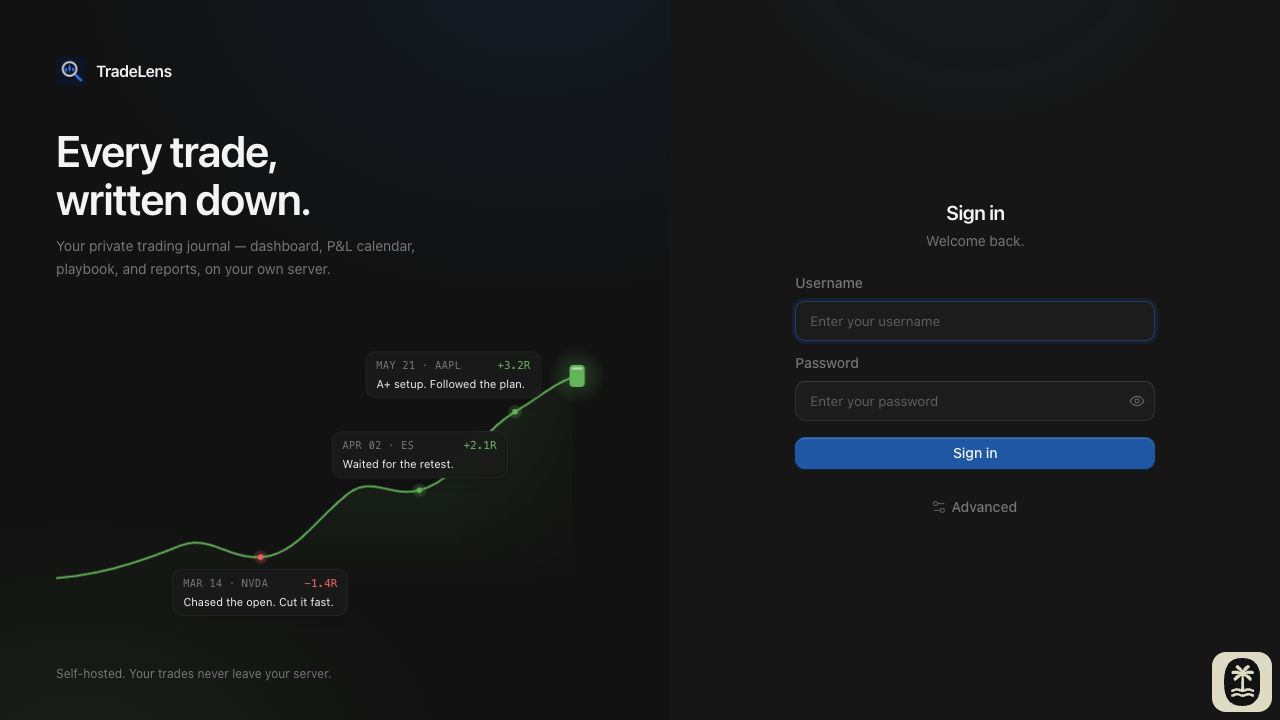
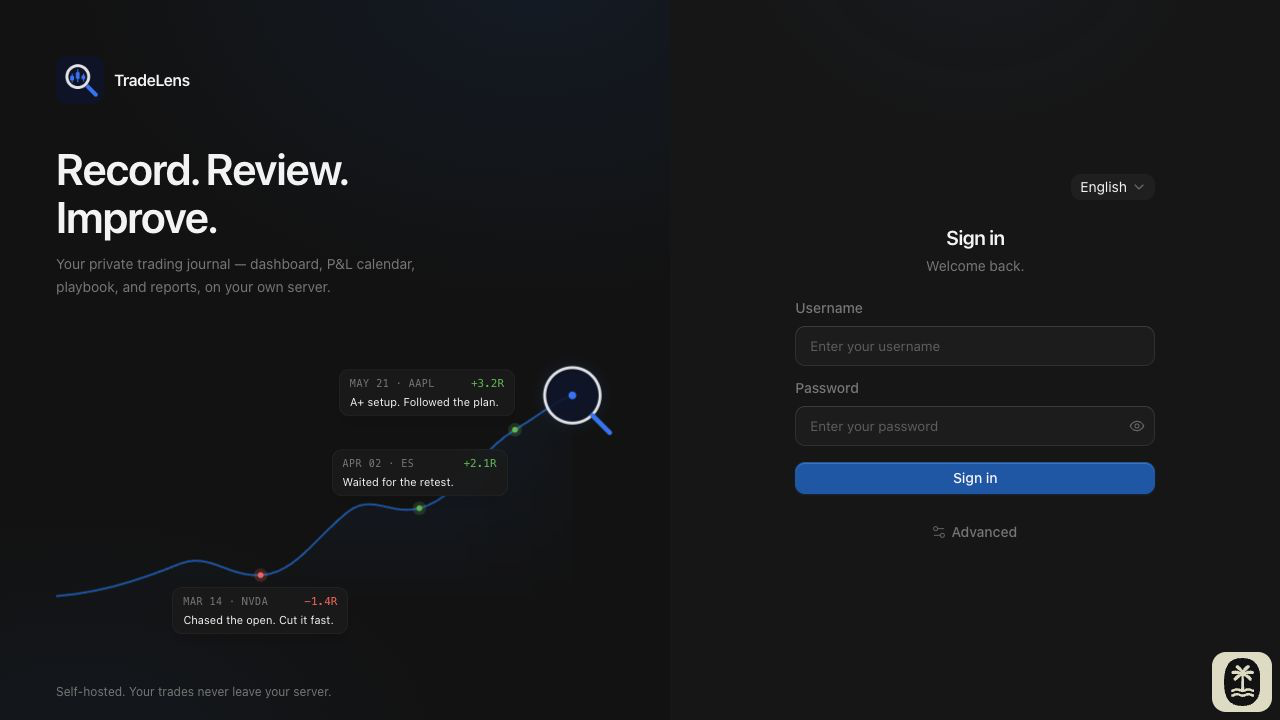
docs: refresh README for current TradeLens UI and roadmap

diff --git a/README.md b/README.md
@@ -28,7 +28,7 @@ TradeLens retains the original project’s AGPL-3.0 license and attribution; see
 
 <br/>
 
-<img src="docs/screenshots/tradelens-login-en.png" alt="TradeLens sign-in screen with the lens icon and product name" width="100%" />
+<img src="docs/screenshots/tradelens-login-en.png" alt="TradeLens sign-in screen with language selector" width="100%" />
 
 </div>
 
@@ -58,12 +58,12 @@ These capabilities are available on the current `main` branch. Core journaling, 
 
 | Capability | What you can do |
 |---|---|
-| **Trading Journal** | Record or import fills, group them into trades, filter and tag your journal, attach screenshots, and review execution detail and MAE/MFE. Keep trade plans, planned direction, stops, and targets alongside actual fills and review notes. Import broker CSVs, MT4/MT5 statements, or IBKR Flex data; use [tm-sync](docs/tm-sync.md) to watch statement folders. |
+| **Trading Journal** | Record or import fills, group them into trades, filter and tag your journal, attach screenshots, and review execution detail and MAE/MFE when intraday bars are available. Keep trade plans, planned direction, stops, and targets alongside actual fills and review notes. Import broker CSVs, MT4/MT5 statements, or IBKR Flex trade data; use [tm-sync](docs/tm-sync.md) to watch statement folders. |
 | **Portfolio & Performance** | Review one account or a selected account group through Home statistics, equity curves, the P&L calendar, account-value estimates, and annual goals. Analyze expectancy, SQN, Kelly %, Monte Carlo, execution quality, and setup/session breakdowns; manage cash flows and risk/prop alerts. Mixed-currency analytics require a target currency and use **latest FX**, including when displaying historical values; they do not reconstruct historical FX returns. |
 | **Japanese Broker Support** | Import SBI Securities execution, yen cash-statement, and domestic-stock realized P&L CSVs. Review cash and margin-long/short trades, 現引 (margin-to-cash conversion), and 現渡 (delivery settlement), with broker-specific accounting and warnings where split or valuation evidence is incomplete. |
 | **Market Data** | Use Yahoo or Finnhub bars, or connect a local/self-hosted service implementing the Generic Bars v1 HTTP contract. Configure provider order and fallback for supported responses. Feed charts, excursion analysis, replay, valuation, and prediction evaluation with available bars; inspect split-related events and data limitations. |
 | **Trading Research** | Build a Playbook linked to trades and review rule compliance. Replay available bars with a persistent paper account. Record news theses, affected assets, and User/AI predictions; review optional AI suggestions before saving and export news records as Markdown. Prediction-validation APIs evaluate trading-day horizons and optional benchmark/excess returns; the News performance page summarizes stored evaluations. |
-| **User Experience** | Review trades in dark or light themes, use localized Web workflows in English, Simplified Chinese, and Japanese (with upstream Traditional Chinese and Korean retained), and use position-size, FX, and Kelly tools. Share revocable read-only performance links, share cards, and Year Wrapped recaps. Optional AI supports screenshot fill extraction and trade coaching; personal API tokens support scripts/MCP, with OpenAPI docs at `/docs`. |
+| **User Experience** | Choose English, 中文, or 日本語 before sign-in, then use localized Web workflows in English, Simplified Chinese, and Japanese (with upstream Traditional Chinese and Korean retained). Review trades in dark or light themes and use position-size, FX, and Kelly tools. Share cards and Year Wrapped recaps, or enable revocable read-only performance links. Optional AI supports screenshot fill extraction and trade coaching; personal API tokens support scripts/MCP, with OpenAPI docs at `/docs`. |
 
 ## Extended from TraderMemos
 
@@ -74,15 +74,13 @@ This fork adds or significantly extends the following areas while retaining the 
 - **Trade planning and review:** planned direction is stored separately from execution/accounting direction, with clearer separation of plan, actual fills, target-price comparison, and review notes. The underlying journal, stops/targets, and risk tools come from TraderMemos.
 - **Market-data integration:** Generic Bars v1 HTTP access for compatible external services, configurable provider routing/fallback, source metadata, and additional Japanese symbol and corporate-action handling. This interface does not bundle a collector or guarantee complete intraday history.
 - **News thesis research:** news/asset records, manual predictions, optional structured AI analysis with explicit acceptance, deterministic horizon evaluation, optional benchmark comparison, performance aggregation, and Markdown export. Evaluation depends on available bars; pending, unavailable, and incomplete outcomes remain distinct from validated results.
-- **Web localization and workflow refinements:** Simplified Chinese and expanded English/Japanese coverage across trading, imports, analytics, news, and settings, plus TradeLens branding and revised review surfaces. Translation coverage does not imply every retained upstream locale or mobile workflow has been validated.
+- **Web localization and workflow refinements:** a sign-in language selector, Simplified Chinese and expanded English/Japanese coverage across trading, imports, analytics, news, and settings, plus TradeLens branding and revised review surfaces. Translation coverage does not imply every retained upstream locale or mobile workflow has been validated.
 
 ## Roadmap & validation scope
 
 The following are tracked separately and are **not delivered features**:
 
-- [IBKR intraday market-data provider](https://github.com/HoesenBruce/TradeLens/issues/15): IBKR Flex trade imports are available; a dedicated IBKR intraday bars provider is not.
-- [Custom statistics dashboard](https://github.com/HoesenBruce/TradeLens/issues/10), [additional multi-account review](https://github.com/HoesenBruce/TradeLens/issues/9), and [actual/virtual account comparison](https://github.com/HoesenBruce/TradeLens/issues/8): current portfolio aggregation does not imply these additional workflows are complete.
-- [Login-page language selector](https://github.com/HoesenBruce/TradeLens/issues/195): in-app language settings exist; a login selector remains planned.
+- [Custom statistics dashboard](https://github.com/HoesenBruce/TradeLens/issues/10), [multi-account review workflow](https://github.com/HoesenBruce/TradeLens/issues/9), and [actual/virtual account comparison](https://github.com/HoesenBruce/TradeLens/issues/8) remain open for specification. Current account aggregation does not deliver these workflows.
 
 The Generic Bars HTTP integration is implemented; operating a separate intraday collector and verifying its data coverage is a separate deployment task. News research and evaluation are implemented as described above, not a promise of automated news collection or a general event backtesting system.
 
@@ -108,7 +106,7 @@ cd TradeLens
 make up-build    # → http://localhost:3000
 ```
 
-Build from this fork so the Web UI includes TradeLens branding; `make up` pulls upstream images by default until fork release metadata is updated (#103). Same-origin `/api` — no CORS, leave the **Server** field blank. On first visit the **setup wizard** creates your owner account.
+`make up-build` builds both images from this checkout. `make up` uses the published upstream TraderMemos images by default; set `DOCKERHUB_USERNAME` and `TM_IMAGE_TAG` to use your own published images. The local stack serves Web and `/api` on one origin, so leave the **Server** field blank. On first visit the **setup wizard** creates your owner account.
 
 <details>
 <summary><strong>Options and production notes</strong></summary>
